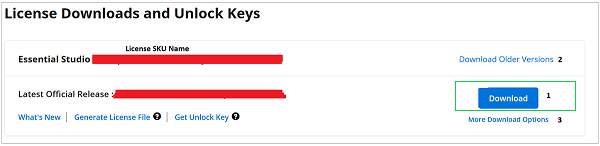
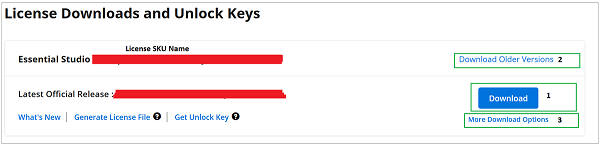
IN-18058-UG-Documentation-Improvements-UWP

Changed region(s): [[0.75, 0.5479, 0.96, 0.7945], [0.75, 0.3562, 0.99, 0.4932], [0.78, 0.8493, 0.96, 0.8767]]

diff --git a/uwp/installation/web-installer/how-to-install.md b/uwp/installation/web-installer/how-to-install.md
@@ -120,13 +120,8 @@ Follow either one of the option below to uninstall Syncfusion Essential Studio U
 
 Syncfusion provides the option to uninstall products of the same version directly from the Web Installer application. Select the products to be uninstalled from the list, and Web Installer will uninstall them one by one.
 
-Open the Syncfusion Essential Studio UWP Online Installer file from downloaded location by double-clicking it. The Installer Wizard automatically opens and extracts the package
 
-![Installer Extraction Wizard uninstall](images/Step-by-Step-Installation_img1.png)
-	
-The Syncfusion UWP Web Installer's welcome wizard will be displayed. Click the Next button
-	
-![Welcome wizard uninstall](images/Step-by-Step-Installation_img2.png)
+![Platform Selection wizard Installed](images/Step-by-Step-Installation_img4.png)
 	
 	
 **Option 2: Uninstall the UWP from Windows Control Panel**  
@@ -137,7 +132,11 @@ You can uninstall all the installed products by selecting the **Syncfusion Essen
 	
 N> If the **Syncfusion Essential Studio for UWP {version}** entry is selected from the Windows control panel, the Syncfusion Essential Studio UWP alone will be removed and the below default MSI uninstallation window will be displayed.	
 
-1.  The Platform Selection Wizard will appear. From the **Installed** tab, select the products to be uninstalled. To select all products, check the **Uninstall All** checkbox. Click the Next button.
+1.  The Syncfusion UWP Web Installer's welcome wizard will be displayed. Click the Next button
+	
+    ![Welcome wizard uninstall](images/Step-by-Step-Installation_img2.png)
+
+2.  The Platform Selection Wizard will appear. From the **Installed** tab, select the products to be uninstalled. To select all products, check the **Uninstall All** checkbox. Click the Next button.
     
 	<em>**Installed**</em>
 	
@@ -149,37 +148,37 @@ N> If the **Syncfusion Essential Studio for UWP {version}** entry is selected fr
 	
 	![Platform Selection wizard Available](images/Step-by-Step-Installation_img25.png)
 	
-2.  If any other products selected for installation, Uninstall previous version wizard will be displayed with previous version(s) installed for the selected products. Here you can view the list of installed previous versions for the selected products. Select **Uninstall All** checkbox to select all the versions. Click Next.
+3.  If any other products selected for installation, Uninstall previous version wizard will be displayed with previous version(s) installed for the selected products. Here you can view the list of installed previous versions for the selected products. Select **Uninstall All** checkbox to select all the versions. Click Next.
 
 	![Existing Version for install](images/Step-by-Step-Installation_img26.png)
 	
-3.	Pop up screen will be displayed to get the confirmation to uninstall selected previous versions.
+4.	Pop up screen will be displayed to get the confirmation to uninstall selected previous versions.
 
 	![Existing Version for install](images/Step-by-Step-Installation_img21.png)	
 	
-4.  The Confirmation Wizard will appear with the list of products to be installed/uninstalled. Here you can view and modify the list of products that will be installed/uninstalled.
+5.  The Confirmation Wizard will appear with the list of products to be installed/uninstalled. Here you can view and modify the list of products that will be installed/uninstalled.
 
     ![Confirmation for install/uninstall](images/Step-by-Step-Installation_img15.png)
 	
 	N> By clicking the **Download Size and Installation** Size links, you can determine the approximate size of the download and installation
 	
-5.	The Configuration Wizard will appear. You can change the Download, Install, and Demos locations from here. You can also change the Additional settings on a product-by-product basis. Click Next to install with the default settings.
+6.	The Configuration Wizard will appear. You can change the Download, Install, and Demos locations from here. You can also change the Additional settings on a product-by-product basis. Click Next to install with the default settings.
 
     ![Install and samples location install/uninstall](images/Step-by-Step-Installation_img23.png)
 	
-6.	After reading the License Terms and Conditions, check the **I agree to the License Terms and Privacy Policy** check box. Click the Next button.
+7.	After reading the License Terms and Conditions, check the **I agree to the License Terms and Privacy Policy** check box. Click the Next button.
 
-7.	The login wizard will appear. You must enter your Syncfusion email address and password. If you do not already have a Syncfusion account, you can create one by clicking on **Create an Account**. If you have forgotten your password, click **Forgot Password** to create a new one. Click the Install button.
+8.	The login wizard will appear. You must enter your Syncfusion email address and password. If you do not already have a Syncfusion account, you can create one by clicking on **Create an Account**. If you have forgotten your password, click **Forgot Password** to create a new one. Click the Install button.
 
     ![Login wizard install/uninstall](images/Step-by-Step-Installation_img9.png)
 	
 	I> The products you have chosen will be installed based on your Syncfusion License (Trial or Licensed).
 
-8.	The download, installation, and uninstallation progresses will be shown.
+9.	The download, installation, and uninstallation progresses will be shown.
 
     ![Download and Installation progress install/uninstall](images/Step-by-Step-Installation_img17.png)
 
-9.	When the installation is finished, the **Summary** wizard will appear. Here you can see the list of products that have been successfully and unsuccessfully installed/uninstalled. To close the Summary wizard, click Finish.
+10.	When the installation is finished, the **Summary** wizard will appear. Here you can see the list of products that have been successfully and unsuccessfully installed/uninstalled. To close the Summary wizard, click Finish.
 
     ![Summary install/uninstall](images/Step-by-Step-Installation_img18.png)
 	

diff --git a/uwp/installation/web-installer/how-to-download.md b/uwp/installation/web-installer/how-to-download.md
@@ -20,7 +20,7 @@ The Syncfusion UWP web installer can be downloaded from the [Syncfusion.com](htt
 Our 30-day trial can be downloaded in two ways.
 
    * Download Free Trial Setup
-   * Start Trials if using components through [Nuget.org](https://www.nuget.org/packages?q=syncfusion)
+   * Start Trials if using components through [NuGet.org](https://www.nuget.org/packages?q=syncfusion)
 
 ### Download Free Trial Setup
 
@@ -37,7 +37,7 @@ Our 30-day trial can be downloaded in two ways.
    ![Trial and downloads of Syncfusion Essential Studio](images/trial-download.png)
 
 
-### Start Trials if using components through [Nuget.org](https://www.nuget.org/packages?q=syncfusion)
+### Start Trials if using components through [NuGet.org](https://www.nuget.org/packages?q=syncfusion)
 
 You should initiate an evaluation if you have already obtained our components through [NuGet.org](https://www.nuget.org/packages?q=syncfusion)
 
@@ -52,7 +52,7 @@ You should initiate an evaluation if you have already obtained our components th
 
    N> If you've already used the trial products and they haven't expired, you won't be able to start the trial for the same product again.
 
-4. After you've started the trial, go to the [Trials & Downloads](https://www.syncfusion.com/account/manage-trials/downloads) page to get the latest version trial installer. You can generate the [unlock](https://www.syncfusion.com/kb/8069/how-to-generate-unlock-key-for-essentials-studio-products) key here at any time before the trial period expires. (as shown in below screenshot.)
+4. After you've started the trial, go to the [Trials & Downloads](https://www.syncfusion.com/account/manage-trials/downloads) page to get the latest version trial installer. You can generate the [unlock key](https://www.syncfusion.com/kb/8069/how-to-generate-unlock-key-for-essentials-studio-products) and [license key](https://help.syncfusion.com/uwp/licensing/generating-license-keys) here at any time before the trial period expires. (as shown in below screenshot.)
 
    ![License and downloads of Syncfusion Essential Studio](images/start-trial-download-installer.png)
 
@@ -64,11 +64,18 @@ You should initiate an evaluation if you have already obtained our components th
 1. Syncfusion licensed products will be available in the [License & Downloads](https://www.syncfusion.com/account/downloads) page under your registered Syncfusion account.
 2. You can view all the licenses (both active and expired) associated with your account.
 3. Click the Download (element 1 in the screenshot below) button to download the UWP web installer.
-   
+4. The most recent version of the installer will be downloaded from this page.
+5. To download older version installers, go to [Downloads Older Versions](https://www.syncfusion.com/account/downloads/studio) (element 2 in the screenshot below).
+6. You can download other platform\add-on installers by going to More Downloads Option (element 3 in the screenshot below).
+
    ![License and downloads of Syncfusion Essential Studio](images/license-download.png)
    
-4. For Windows OS, EXE and Zip formats are available for download. They are both Offline Installers.
+7. Before the license expires, you can download the installer at any time from your registered account’s [License & Downloads](https://www.syncfusion.com/account/downloads) page (See the screenshot below.)
    
    ![License and downloads of Syncfusion Essential Studio](images/start-trial-download-web-installer.png)
+   
+8. After downloading, the Syncfusion UWP web installer can be unlocked using Syncfusion registered login credential.
+
+   N> For Syncfusion trial and licensed products, there is no separate web installer. Based on your account license, Syncfusion trial or licensed products will be installed via web installer.
 
 You can also refer to the [**web installer**](https://help.syncfusion.com/uwp/installation-and-upgrade/install-using-the-web-installer) links for step-by-step installation guidelines.	

diff --git a/uwp/installation/offline-installer/how-to-download.md b/uwp/installation/offline-installer/how-to-download.md
@@ -20,7 +20,7 @@ The Syncfusion UWP offline installer can be downloaded from the [Syncfusion.com]
 Our 30-day trial can be downloaded in two ways.
 
    * Download Free Trial Setup
-   * Start Trials if using components through [Nuget.org](https://www.nuget.org/packages?q=syncfusion)
+   * Start Trials if using components through [NuGet.org](https://www.nuget.org/packages?q=syncfusion)
 
 ### Download Free Trial Setup
 
@@ -39,7 +39,7 @@ Our 30-day trial can be downloaded in two ways.
 
    ![License and downloads of Syncfusion Essential Studio](images/start-trial-download-offline-installer.png)
 
-### Start Trials if using components through [Nuget.org](https://www.nuget.org/packages?q=syncfusion)
+### Start Trials if using components through [NuGet.org](https://www.nuget.org/packages?q=syncfusion)
 
 You should initiate an evaluation if you have already obtained our components through [NuGet.org](https://www.nuget.org/packages?q=syncfusion)
 
@@ -54,7 +54,7 @@ You should initiate an evaluation if you have already obtained our components th
 
    N> If you've already used the trial products and they haven't expired, you won't be able to start the trial for the same product again.
 
-4. After you've started the trial, go to the [Trials & Downloads](https://www.syncfusion.com/account/manage-trials/downloads) page to get the latest version trial installer. You can generate the [unlock](https://www.syncfusion.com/kb/8069/how-to-generate-unlock-key-for-essentials-studio-products) key here at any time before the trial period expires. (as shown in below screenshot.)
+4. After you've started the trial, go to the [Trials & Downloads](https://www.syncfusion.com/account/manage-trials/downloads) page to get the latest version trial installer. You can generate the [unlock key](https://www.syncfusion.com/kb/8069/how-to-generate-unlock-key-for-essentials-studio-products) and [license key](https://help.syncfusion.com/uwp/licensing/generating-license-keys) here at any time before the trial period expires. (as shown in below screenshot.)
 
    ![License and downloads of Syncfusion Essential Studio](images/start-trial-download-installer.png)
 
